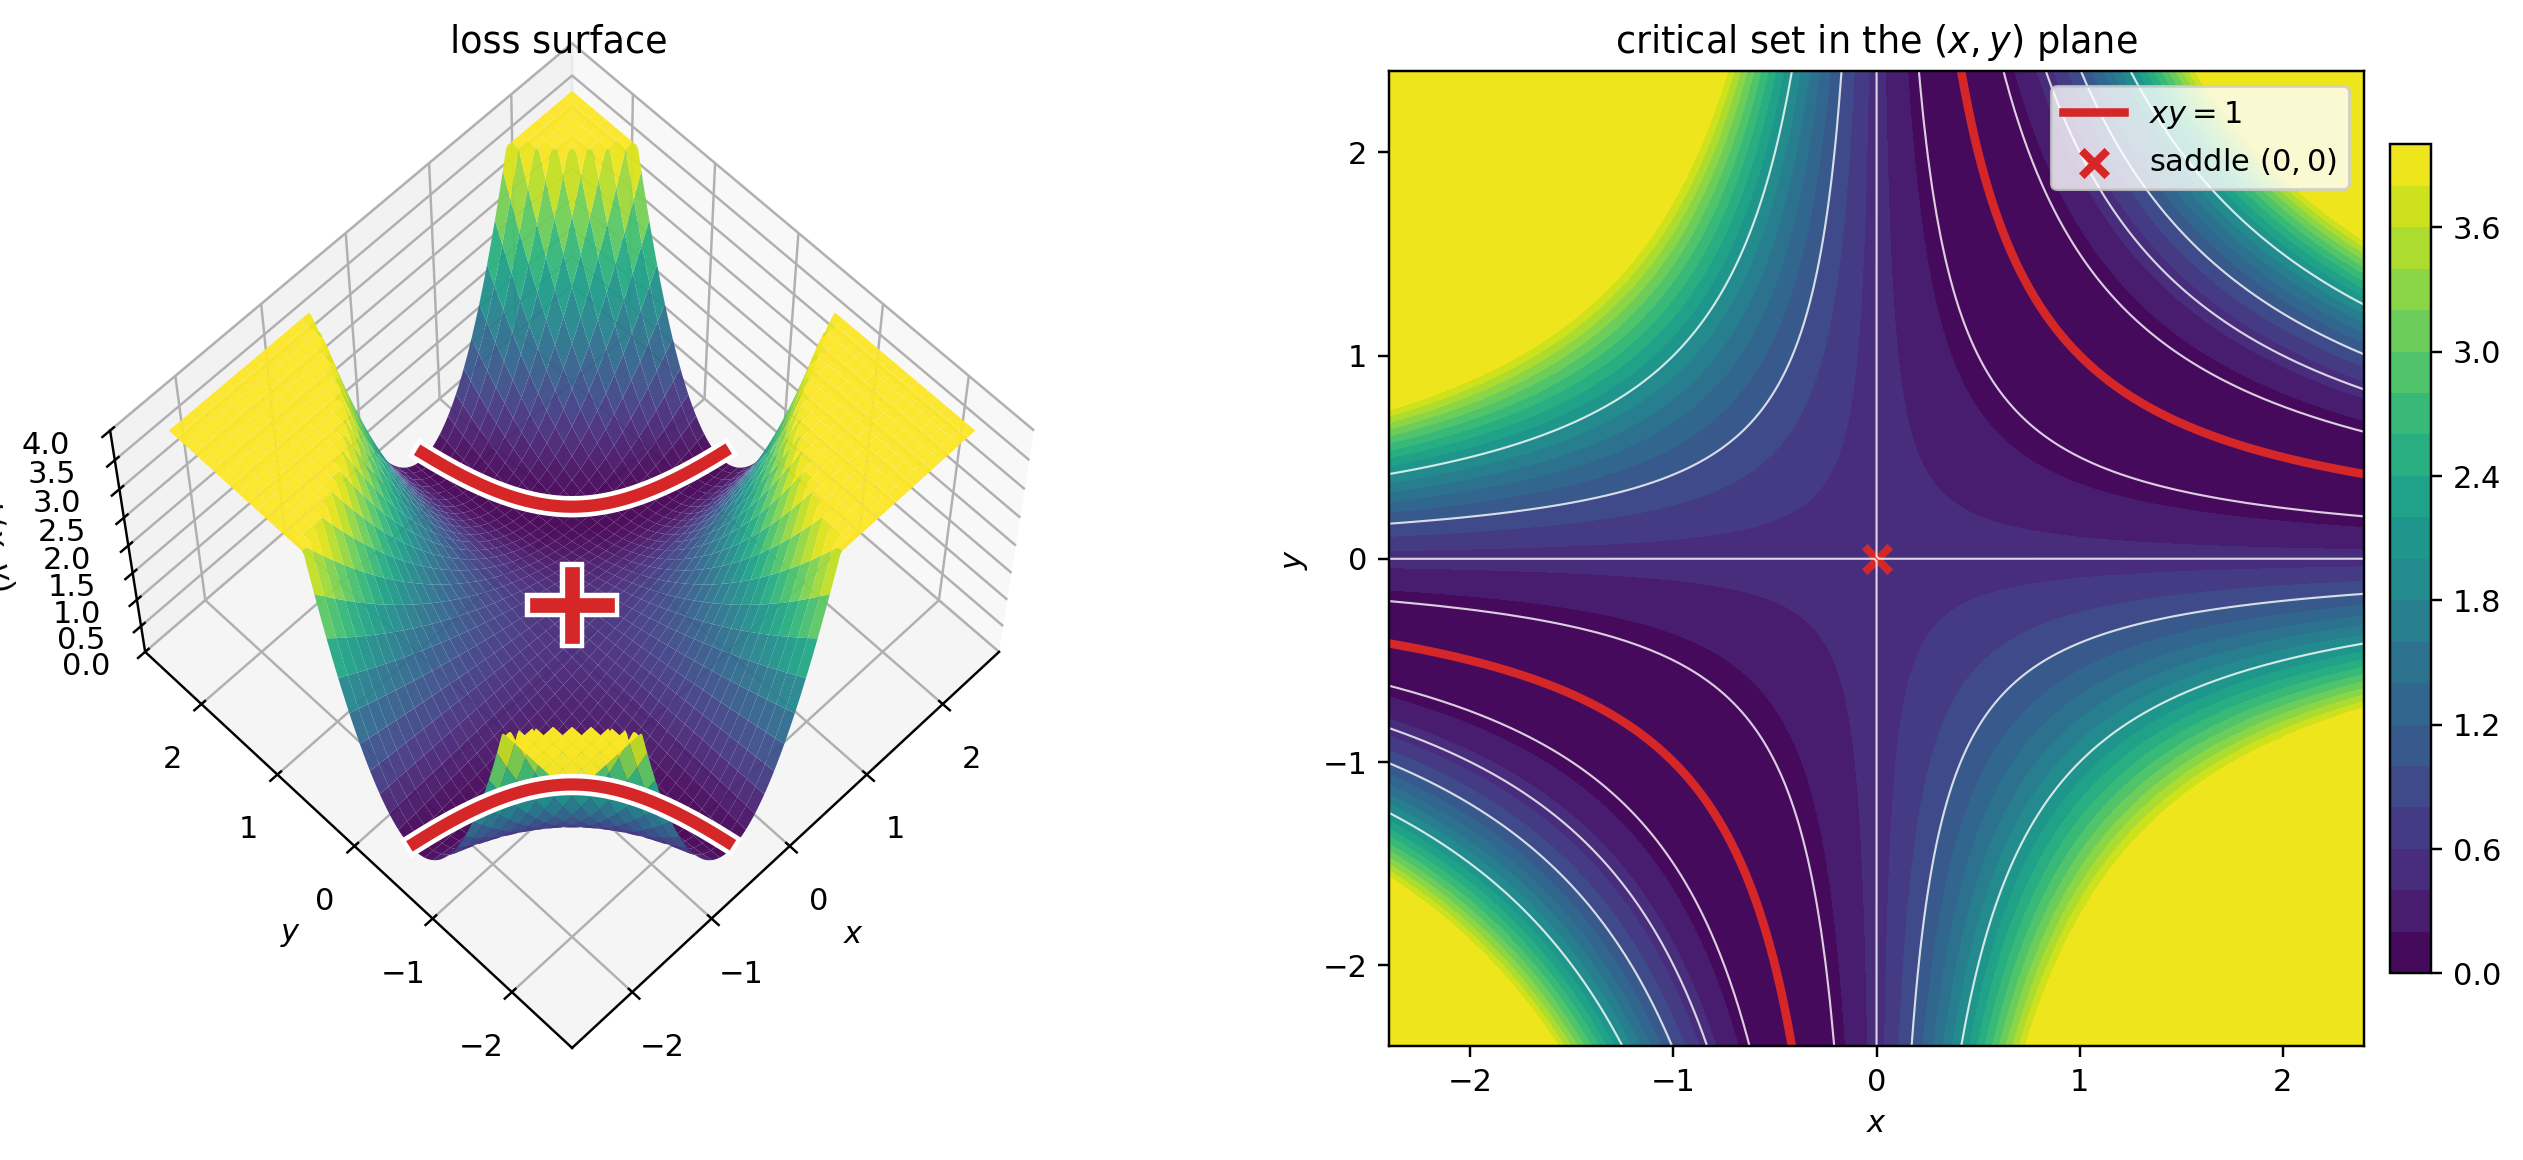
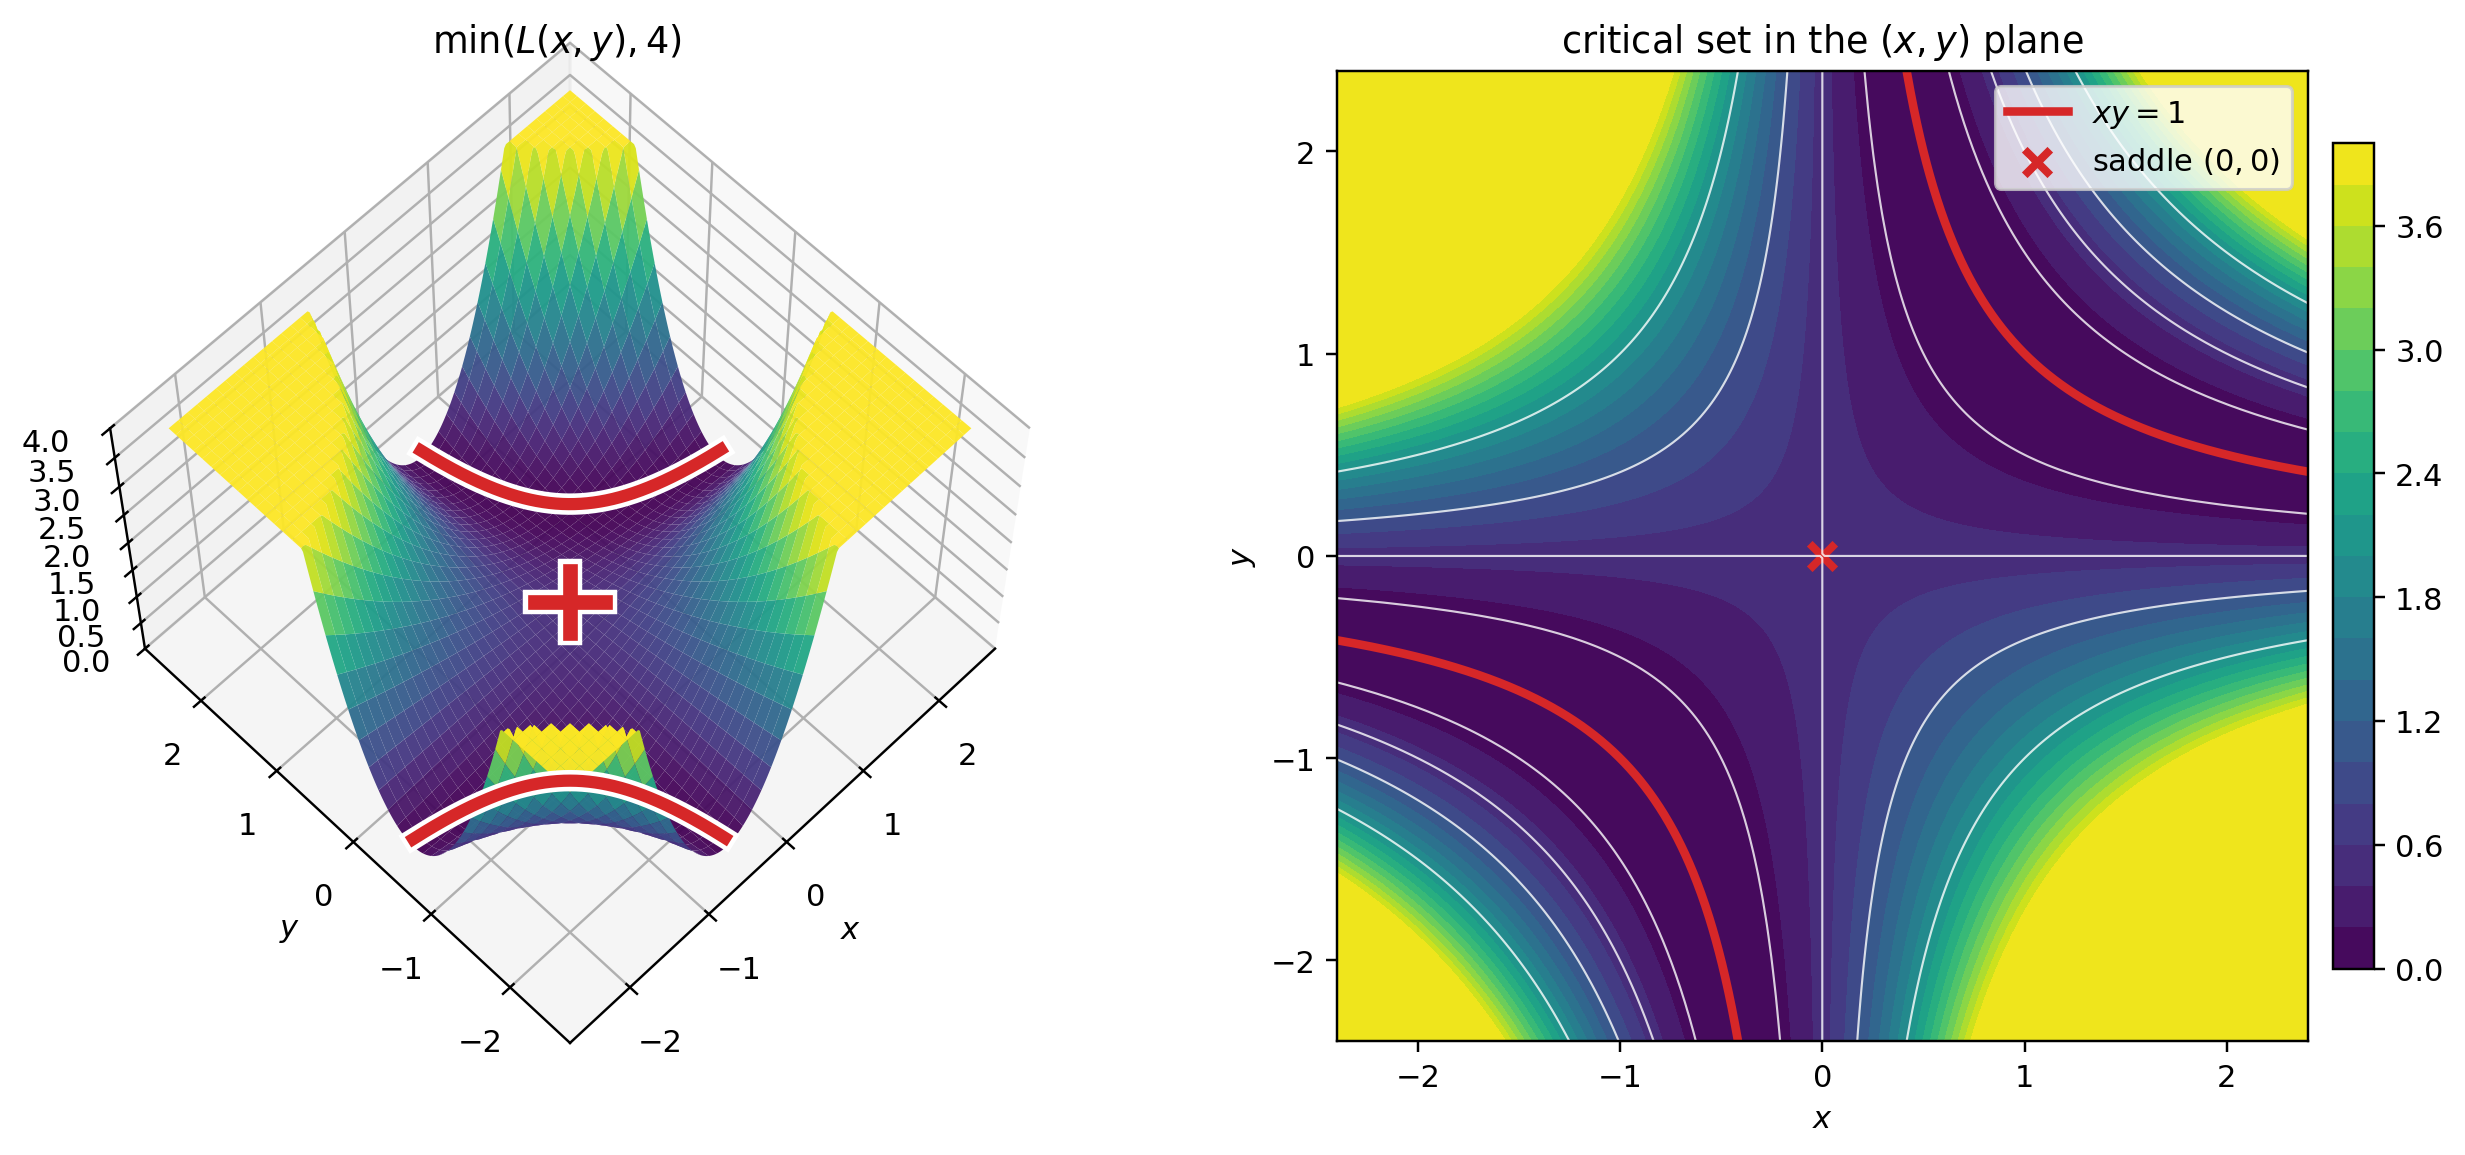
Clarify clipped loss surface labels

diff --git a/assets/post-4-phase-explorer.js b/assets/post-4-phase-explorer.js
@@ -19,6 +19,55 @@
   };
 
   const PLOTLY_URL = "https://cdn.plot.ly/plotly-2.35.2.min.js";
+  const EXPLORER_STYLE_ID = "post-4-phase-explorer-style";
+
+  function ensureExplorerStyles() {
+    if (document.getElementById(EXPLORER_STYLE_ID)) {
+      return;
+    }
+
+    const style = document.createElement("style");
+    style.id = EXPLORER_STYLE_ID;
+    style.textContent = `
+      .phase-explorer{
+        box-sizing:border-box;
+        background:rgba(var(--card, 255,255,255), calc(var(--alpha, .72) * .9));
+        border:1px solid rgba(255,255,255,.18);
+        border-radius:16px;
+        padding:14px;
+        margin:4px 0;
+        max-width:100%;
+        overflow:hidden;
+      }
+      .phase-explorer *{box-sizing:border-box;}
+      .phase-explorer-loading,.phase-explorer-error{opacity:.75;font-size:.95rem;}
+      .phase-explorer-controls{display:grid;gap:10px;margin-bottom:12px;}
+      .phase-explorer-range-row{display:flex;align-items:center;gap:12px;flex-wrap:wrap;}
+      .phase-explorer-range-row label{font-weight:600;white-space:nowrap;}
+      .phase-explorer-slider{flex:1 1 320px;min-width:180px;}
+      .phase-explorer-readout{font-family:ui-monospace,SFMono-Regular,Menlo,Consolas,"Liberation Mono",monospace;font-size:.9rem;opacity:.85;}
+      .phase-explorer-ticks{display:flex;justify-content:space-between;gap:6px;font-size:.78rem;opacity:.62;overflow-x:auto;white-space:nowrap;}
+      .phase-explorer-ticks span{min-width:2.8rem;text-align:center;}
+      .phase-explorer-ticks span.current{opacity:1;font-weight:700;}
+      .phase-explorer-panels{display:grid;grid-template-columns:repeat(2,minmax(0,1fr));gap:14px;align-items:start;}
+      .phase-explorer-plot{position:relative;display:block;width:100%;height:420px;min-height:420px;border-radius:14px;overflow:hidden;background:rgba(0,0,0,.04);}
+      .phase-explorer-legend{display:flex;flex-wrap:wrap;gap:8px 14px;margin:12px 0 6px;font-size:.85rem;}
+      .phase-explorer-legend-item{display:inline-flex;align-items:center;gap:8px;}
+      .phase-explorer-swatch{width:12px;height:12px;border-radius:999px;border:1px solid rgba(0,0,0,.18);flex:0 0 auto;}
+      .phase-explorer-note,.phase-explorer-status{font-size:.9rem;opacity:.78;}
+      .phase-explorer-note{margin:8px 0 0;}
+      .phase-explorer-status{margin:8px 0 0;font-family:ui-monospace,SFMono-Regular,Menlo,Consolas,"Liberation Mono",monospace;}
+      @media (prefers-color-scheme:dark){
+        .phase-explorer{border-color:rgba(255,255,255,.14);}
+        .phase-explorer-plot{background:rgba(255,255,255,.04);}
+      }
+      @media (max-width:900px){
+        .phase-explorer-panels{grid-template-columns:1fr;}
+        .phase-explorer-plot{height:340px;min-height:340px;}
+      }
+    `;
+    document.head.appendChild(style);
+  }
 
   function ensurePlotly() {
     if (window.Plotly) {
@@ -61,6 +110,10 @@
 
   function loss(x, y) {
     return 0.5 * (1 - x * y) ** 2;
+  }
+
+  function displayedLoss(x, y) {
+    return Math.min(loss(x, y), 4);
   }
 
   function gdStep(x, y, eta) {
@@ -123,7 +176,7 @@
 
     const xs = [x];
     const ys = [y];
-    const zs = [Math.log1p(loss(x, y))];
+    const zs = [displayedLoss(x, y)];
 
     function pushForPlot(px, py) {
       if (clipped) {
@@ -135,7 +188,7 @@
       }
       xs.push(px);
       ys.push(py);
-      zs.push(Math.log1p(loss(px, py)));
+      zs.push(displayedLoss(px, py));
     }
 
     if (originHits >= settleWindow) {
@@ -194,7 +247,7 @@
 
   function buildSurface(min, max, size) {
     const grid = linspace(min, max, size);
-    const z = grid.map((y) => grid.map((x) => Math.log1p(loss(x, y))));
+    const z = grid.map((y) => grid.map((x) => displayedLoss(x, y)));
     return { grid, z };
   }
 
@@ -231,6 +284,7 @@
     if (root.dataset.initialized === "true") {
       return;
     }
+    ensureExplorerStyles();
     root.dataset.initialized = "true";
     root.innerHTML = '<div class="phase-explorer-loading">loading interactive explorer…</div>';
 
@@ -256,6 +310,11 @@
       const gridMax = Number(data.grid_max);
       const gridSize = Number(data.grid_size);
       const gridValues = linspace(gridMin, gridMax, gridSize);
+      const axisTickValues = Array.from(
+        { length: Math.round(gridMax - gridMin) + 1 },
+        (_, i) => gridMin + i
+      );
+      const axisTickText = axisTickValues.map((value) => String(value));
       const totalPoints = gridSize * gridSize;
       const hyperbola = buildHyperbola();
       const surface = buildSurface(gridMin, gridMax, 45);
@@ -275,7 +334,7 @@
           <div class="phase-explorer-plot"></div>
         </div>
         <div class="phase-explorer-legend"></div>
-        <p class="phase-explorer-note">The right panel shows the sampled ${gridSize}x${gridSize} grid with nearest-neighbor coloring. The left panel shows the trajectory on the surface of log(1 + L).</p>
+        <p class="phase-explorer-note">The right panel shows the sampled ${gridSize}x${gridSize} grid with nearest-neighbor coloring. The left panel shows the trajectory on the same loss surface, clipped at 4.</p>
         <p class="phase-explorer-status"></p>
       `;
 
@@ -286,6 +345,21 @@
       const rightPlot = root.querySelectorAll(".phase-explorer-plot")[1];
       const legend = root.querySelector(".phase-explorer-legend");
       const status = root.querySelector(".phase-explorer-status");
+
+      function resizePlots() {
+        if (!window.Plotly) {
+          return;
+        }
+        window.Plotly.Plots.resize(leftPlot);
+        window.Plotly.Plots.resize(rightPlot);
+      }
+
+      function queueResize() {
+        requestAnimationFrame(() => {
+          resizePlots();
+          setTimeout(resizePlots, 80);
+        });
+      }
 
       legend.innerHTML = [
         [0, LABEL_TEXT[0]],
@@ -357,7 +431,7 @@
       }
 
       function saddleTrace3d() {
-        const z = Math.log1p(loss(0, 0)) + 0.12;
+        const z = displayedLoss(0, 0) + 0.12;
         const radius = 0.16;
         return {
           type: "scatter3d",
@@ -395,7 +469,7 @@
           mode: "markers",
           x: [selected.x],
           y: [selected.y],
-          z: [Math.log1p(loss(selected.x, selected.y))],
+          z: [displayedLoss(selected.x, selected.y)],
           marker: {
             size: 6,
             color: "#ffffff",
@@ -494,11 +568,11 @@
       const leftLayout = {
         ...commonLayout,
         margin: { l: 0, r: 0, t: 38, b: 0 },
-        title: { text: "trajectory on log(1 + L(x, y))", x: 0.5, xanchor: "center", font: { size: 16 } },
+        title: { text: "trajectory on min(L(x, y), 4)", x: 0.5, xanchor: "center", font: { size: 16 } },
         scene: {
           xaxis: { title: "x", range: [gridMin, gridMax], gridcolor: "rgba(128,128,128,0.25)", zerolinecolor: "rgba(128,128,128,0.45)" },
           yaxis: { title: "y", range: [gridMin, gridMax], gridcolor: "rgba(128,128,128,0.25)", zerolinecolor: "rgba(128,128,128,0.45)" },
-          zaxis: { title: "log(1 + L)", range: [0, 4.05], gridcolor: "rgba(128,128,128,0.25)" },
+          zaxis: { title: "min(L, 4)", range: [0, 4.05], gridcolor: "rgba(128,128,128,0.25)" },
           aspectmode: "cube",
           camera: { eye: { x: -0.85, y: -0.85, z: 1.70 } },
         },
@@ -512,6 +586,9 @@
         xaxis: {
           title: "x",
           range: [gridMin, gridMax],
+          tickmode: "array",
+          tickvals: axisTickValues,
+          ticktext: axisTickText,
           scaleanchor: "y",
           scaleratio: 1,
           gridcolor: "rgba(128,128,128,0.20)",
@@ -520,6 +597,9 @@
         yaxis: {
           title: "y",
           range: [gridMin, gridMax],
+          tickmode: "array",
+          tickvals: axisTickValues,
+          ticktext: axisTickText,
           gridcolor: "rgba(128,128,128,0.20)",
           zerolinecolor: "rgba(128,128,128,0.45)",
         },
@@ -564,6 +644,8 @@
           rightLayout,
           { displayModeBar: false, responsive: true }
         );
+
+        queueResize();
       }
 
       slider.value = String(currentEtaIndex);
@@ -578,6 +660,8 @@
       ]);
 
       render();
+      queueResize();
+      window.addEventListener("resize", queueResize);
 
       if (typeof rightPlot.on === "function") {
         rightPlot.on("plotly_click", (event) => {

diff --git a/_posts/2026-05-18-post-4.md b/_posts/2026-05-18-post-4.md
@@ -88,13 +88,13 @@ You can also explore the same picture interactively, point by point.
 Feel free to click on the right panel to display the trajectory from a chosen initialization, change the learning rate, or rotate the loss surface shown on the left panel:
 <div
   class="phase-explorer"
-  data-src="{{ '/assets/data/post-4-phase-explorer.json' | relative_url }}"
+  data-src="{{ '/assets/data/post-4-phase-explorer.json?v=20260518-5' | relative_url }}"
   data-initial-eta="0.55"
   data-initial-x="1.20"
   data-initial-y="0.80"
 ></div>
 
-<script src="{{ '/assets/post-4-phase-explorer.js' | relative_url }}"></script>
+<script src="{{ '/assets/post-4-phase-explorer.js?v=20260518-5' | relative_url }}"></script>
 
 <p id="plan">
   <strong>Plan.</strong>